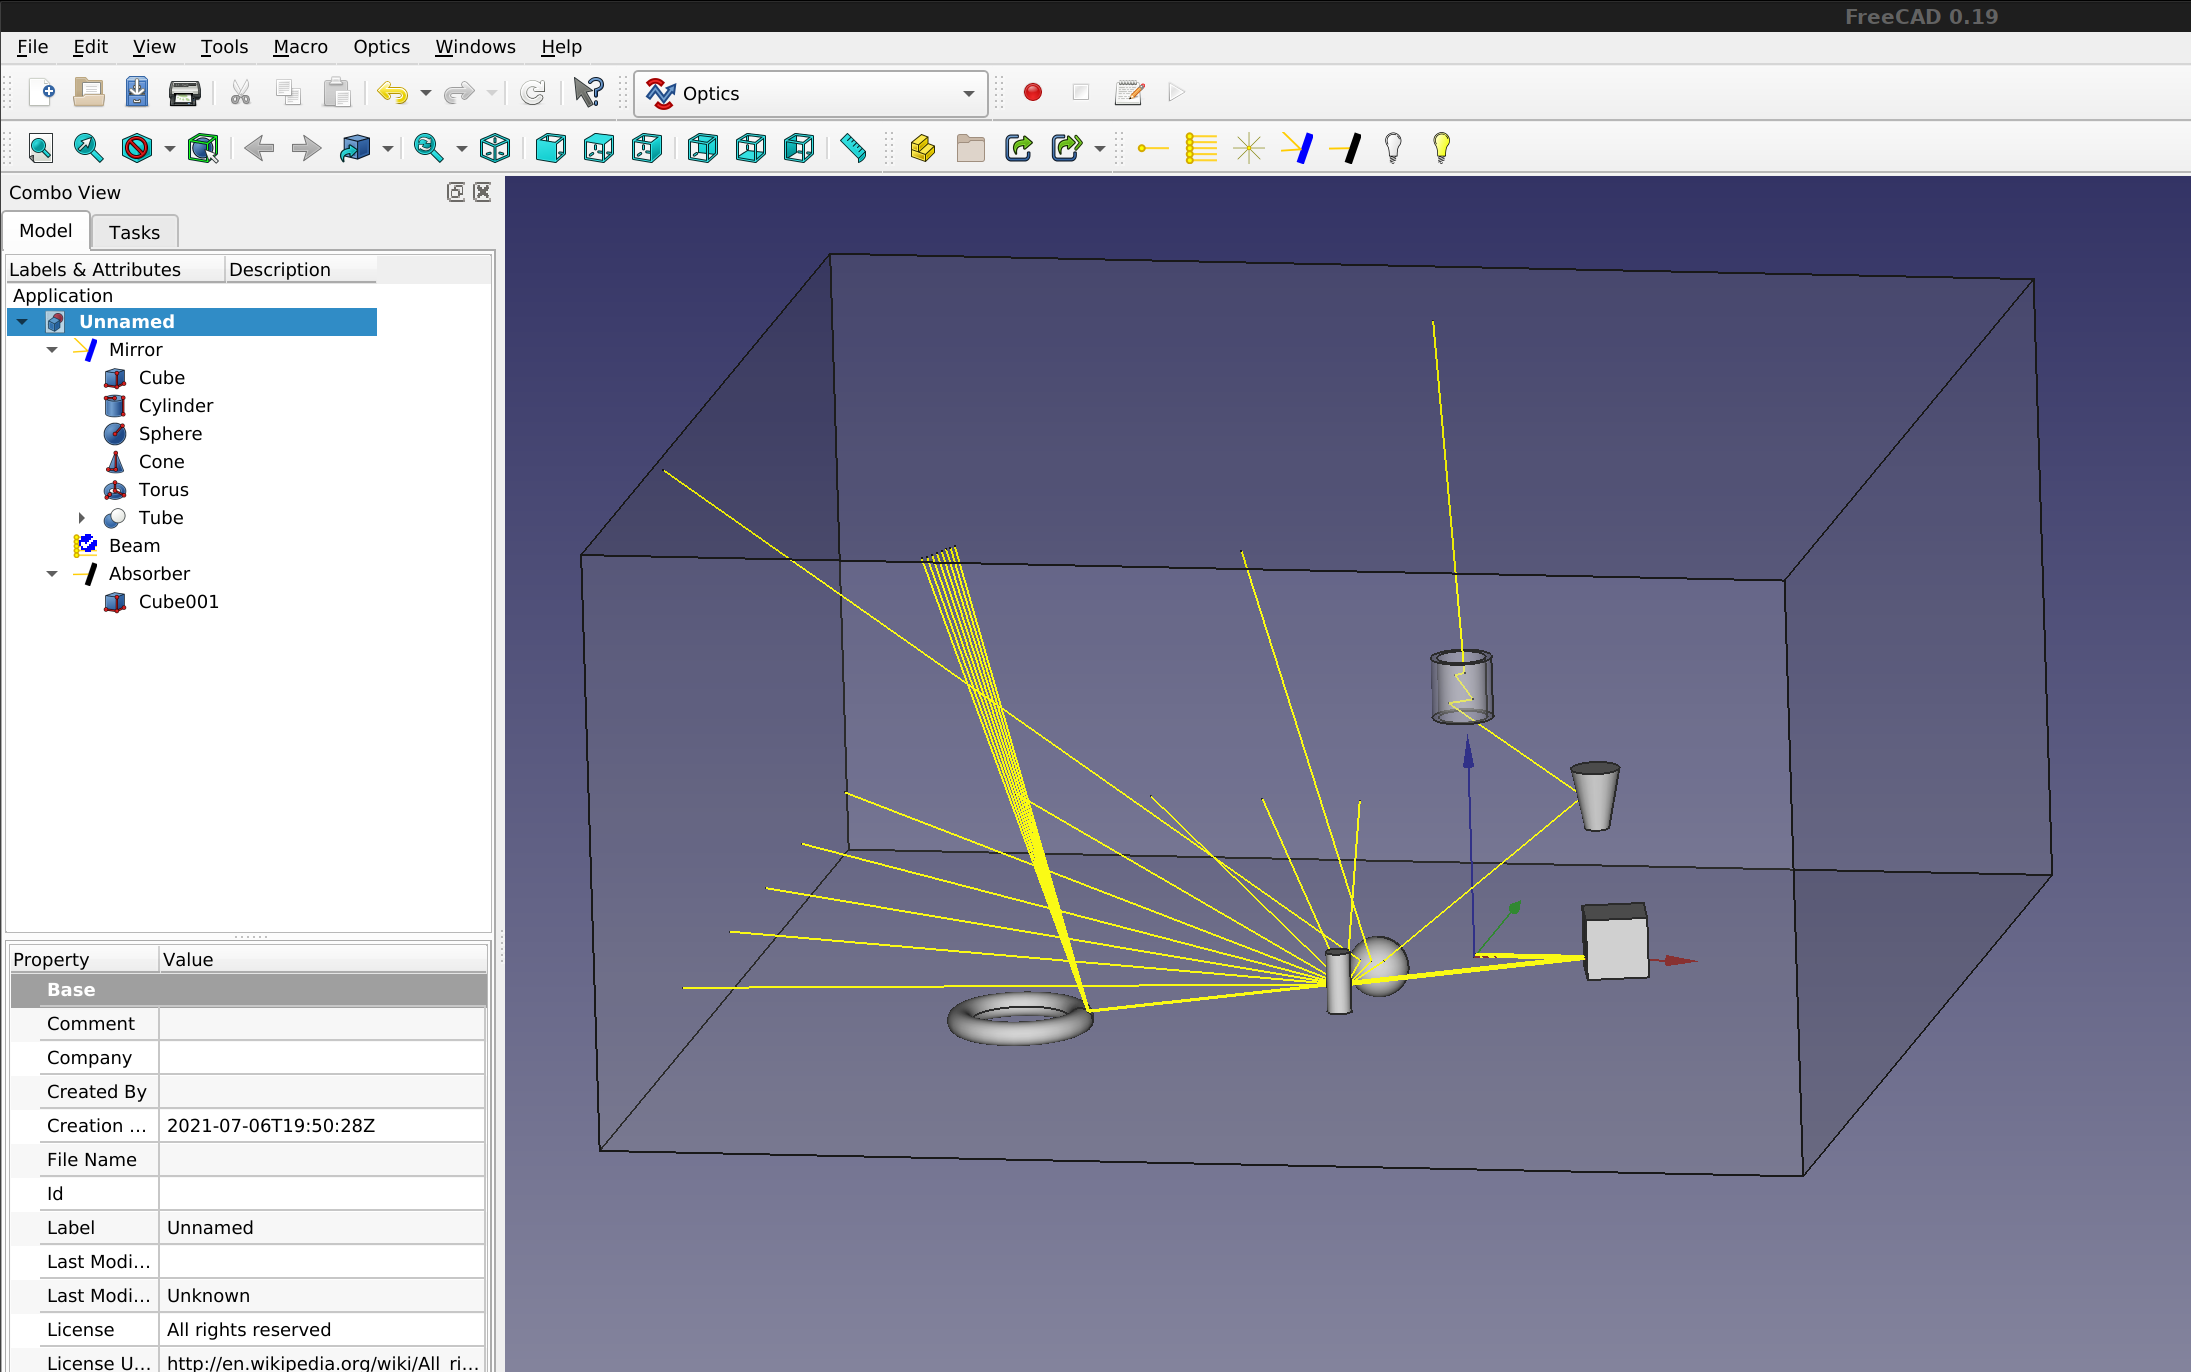
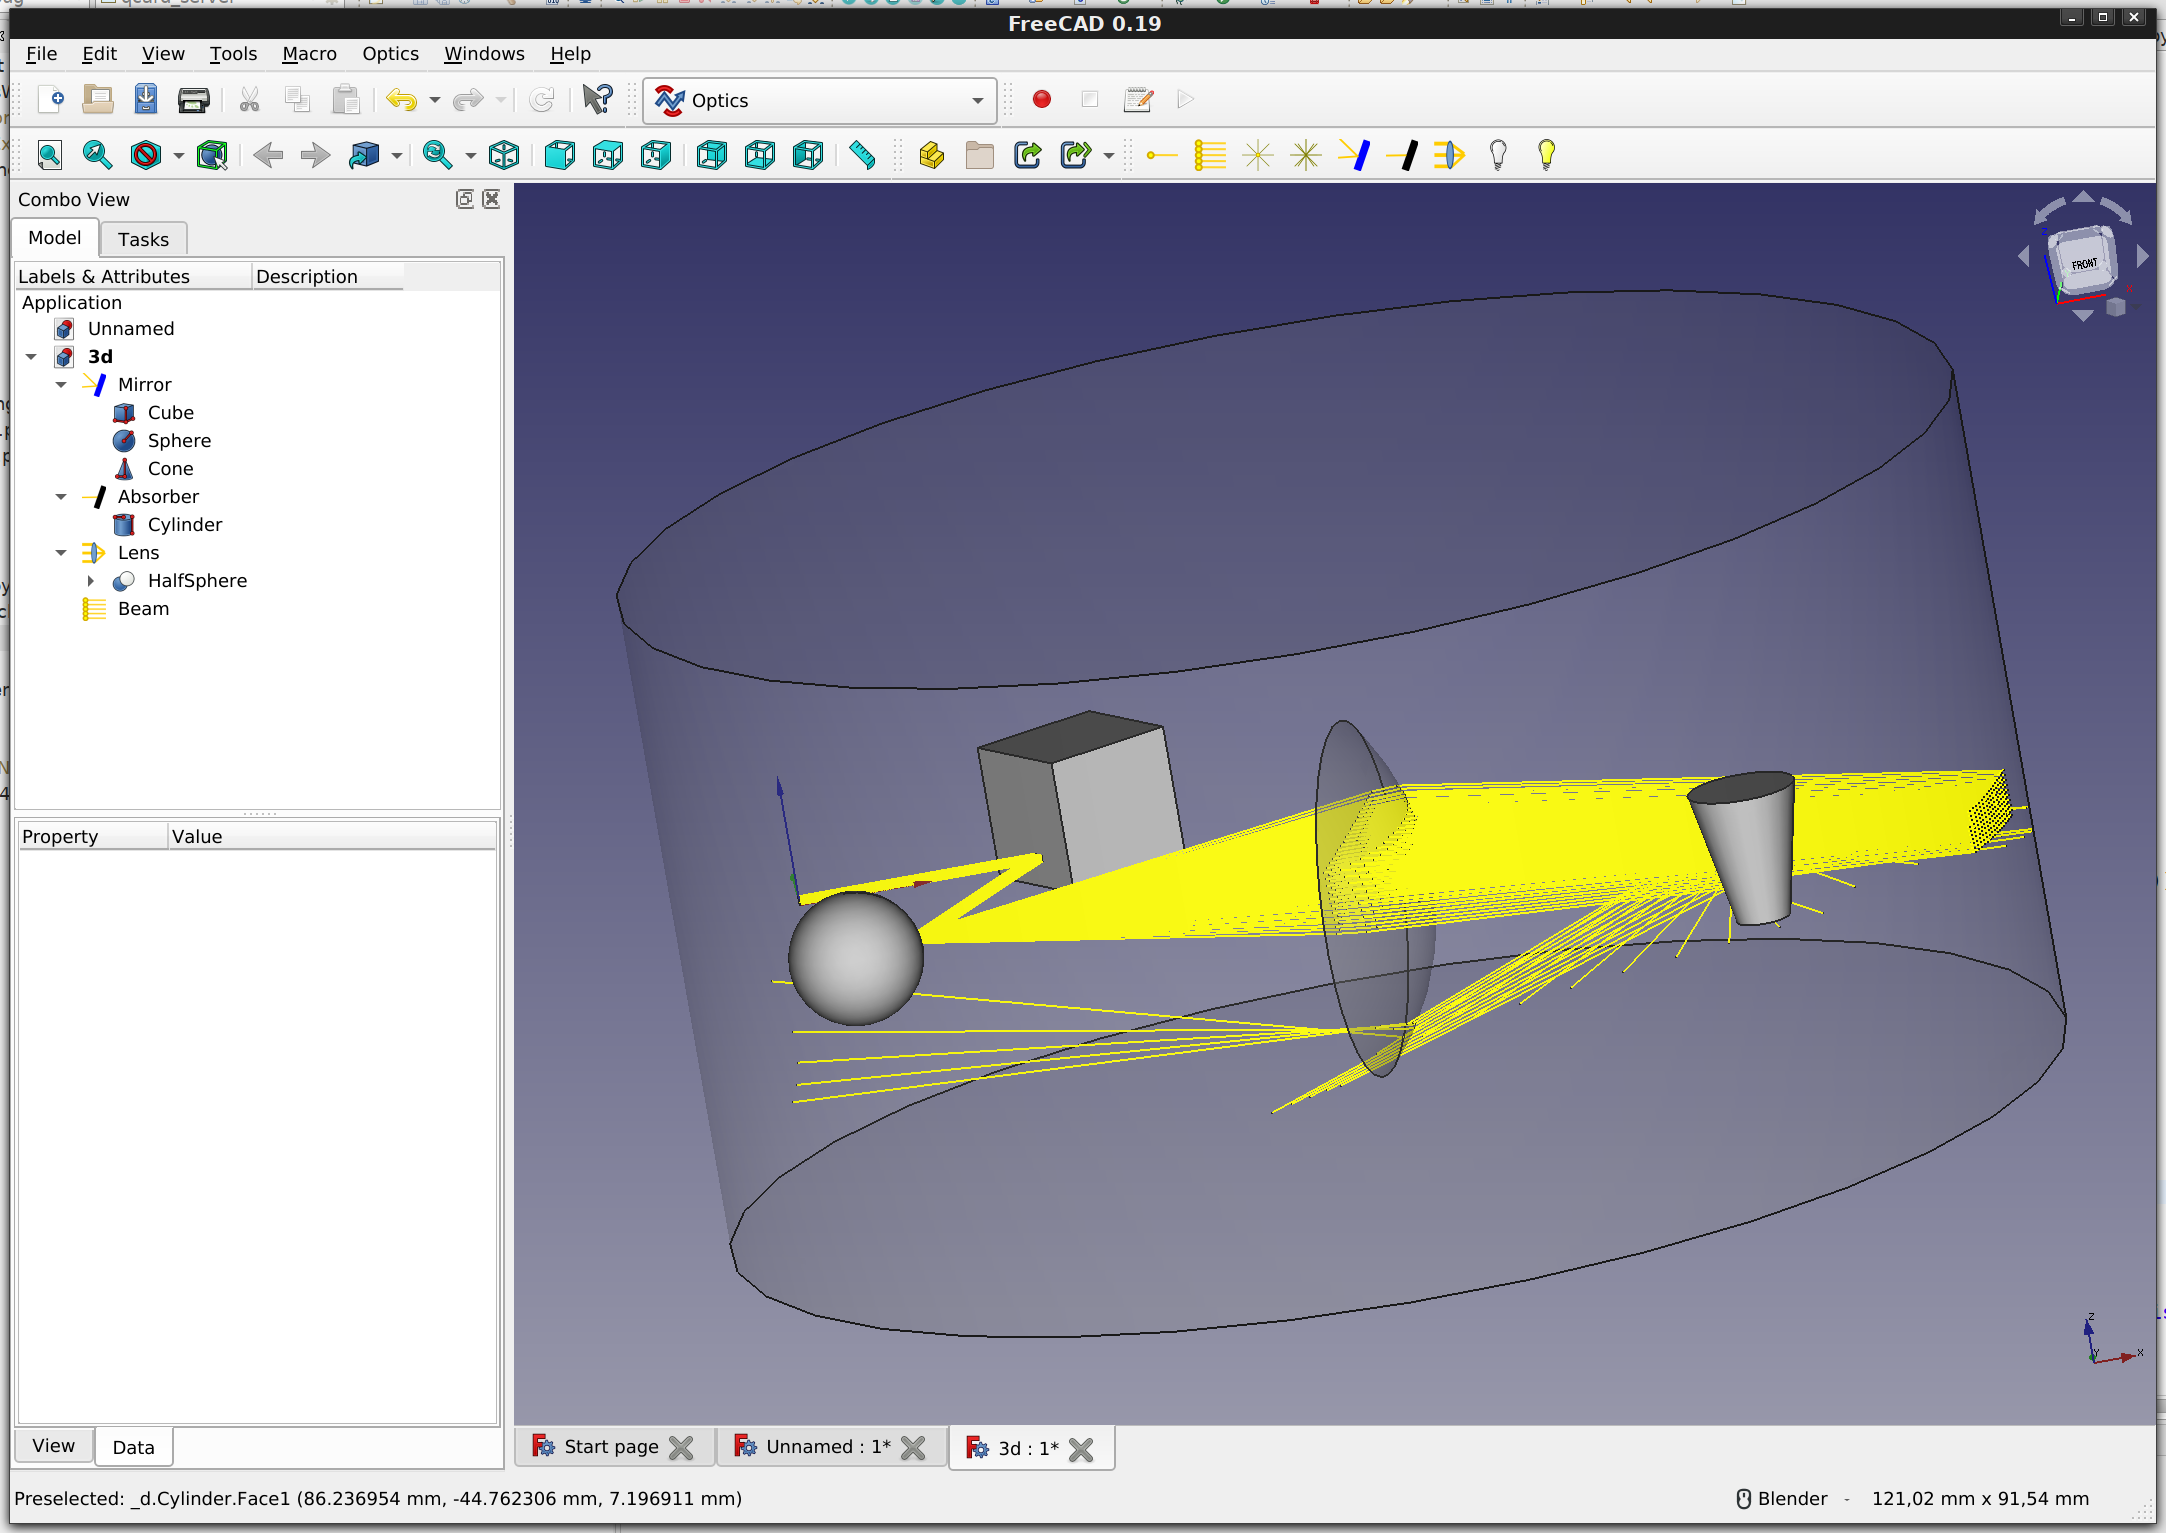
nicer 3D example

diff --git a/examples/example3D.py b/examples/example3D.py
@@ -1,59 +1,55 @@
 from FreeCAD import Vector, Placement, Rotation
-import FreeCAD as App
-import FreeCADGui as Gui
-import OpticsWorkbench
-import os
+import Sketcher
+import Part
+import FreeCAD as app
 
-_icondir_ = os.path.join(os.path.dirname(__file__), '..', 'icons')
 
 def make_Test3D():
-    doc = App.activeDocument()
+    doc = app.activeDocument()
 
     Cube = doc.addObject('Part::Box', 'Cube')
-    Cube.Placement = Placement(Vector(20.00, -6.00, -2.00), Rotation (0.0, 0.0, 0.13052619222005157, 0.9914448613738104))
-
-    Cylinder = doc.addObject('Part::Cylinder', 'Cylinder')
-    Cylinder.Placement = Placement(Vector(-18.00, -22.00, -4.00), Rotation (0.0, 0.0, 0.0, 1.0))
+    Cube.Placement = Placement(Vector(20.00, -3.17, -2.00), Rotation (-0.0, -0.0, 0.25881904510252074, 0.9659258262890684))
 
     Sphere = doc.addObject('Part::Sphere', 'Sphere')
-    Sphere.Placement = Placement(Vector(-16.00, 0.00, -2.00), Rotation (0.0, 0.0, 0.0, 1.0))
+    Sphere.Placement = Placement(Vector(3.00, -19.00, 0.00), Rotation (0.0, 0.0, 0.0, 1.0))
 
     Cone = doc.addObject('Part::Cone', 'Cone')
-    Cone.Placement = Placement(Vector(26.00, -23.00, 28.00), Rotation (0.0, 0.0, 0.0, 1.0))
+    Cone.Placement = Placement(Vector(68.90, -46.50, -2.30), Rotation (0.0, 0.0, 0.0, 1.0))
 
-    Torus = doc.addObject('Part::Torus', 'Torus')
-    Torus.Placement = Placement(Vector(-44.00, -29.00, -1.50), Rotation (0.0, 0.0, 0.0, 1.0))
+    Cylinder = doc.addObject('Part::Cylinder', 'Cylinder')
+    Cylinder.Height = 50.0
+    Cylinder.Placement = Placement(Vector(40.00, -26.00, -19.00), Rotation (0.0, 0.0, 0.0, 1.0))
+    Cylinder.Radius = 50.0
+    Cylinder.ViewObject.Transparency = 90
 
-    Cylinder001 = doc.addObject('Part::Cylinder', 'Cylinder001')
-    Cylinder001.Radius = 5.0
-    Cylinder001.Visibility = False
-    Cylinder001.ViewObject.Visibility = False
+    Sphere001 = doc.addObject('Part::Sphere', 'Sphere001')
+    Sphere001.Radius = 20.0
+    Sphere001.Visibility = False
+    Sphere001.ViewObject.Visibility = False
 
-    Cylinder002 = doc.addObject('Part::Cylinder', 'Cylinder002')
-    Cylinder002.Radius = 4.0
-    Cylinder002.Visibility = False
-    Cylinder002.ViewObject.Visibility = False
+    Cube002 = doc.addObject('Part::Box', 'Cube002')
+    Cube002.Height = 40.0
+    Cube002.Length = 40.0
+    Cube002.Placement = Placement(Vector(-20.00, -25.00, -20.00), Rotation (0.0, 0.0, 0.0, 1.0))
+    Cube002.Visibility = False
+    Cube002.Width = 40.0
+    Cube002.ViewObject.Visibility = False
 
-    Tube = doc.addObject('Part::Cut', 'Tube')
-    Tube.Base = Cylinder001
-    Tube.Placement = Placement(Vector(0.00, -3.00, 41.00), Rotation (0.0, 0.0, 0.0, 1.0))
-    Tube.Tool = Cylinder002
-    Tube.ViewObject.DiffuseColor = [(0.80, 0.80, 0.80, 0.00), (0.80, 0.80, 0.80, 0.00), (0.80, 0.80, 0.80, 0.00), (0.80, 0.80, 0.80, 0.00)]
-    Tube.ViewObject.Transparency = 70
-    
-    OpticsWorkbench.makeMirror([Cube, Cylinder, Sphere, Cone, Torus, Tube])
-    
-    Cube001 = doc.addObject('Part::Box', 'Cube001')
-    Cube001.Height = 100.0
-    Cube001.Length = 200.0
-    Cube001.Placement = Placement(Vector(-122.0, -100.0, -10.00), Rotation (0.0, 0.0, 0.0, 1.0))
-    Cube001.Width = 200.0
-    Cube001.ViewObject.Transparency = 80
-     
-    OpticsWorkbench.makeAbsorber([Cube001])
+    HalfSphere = doc.addObject('Part::Cut', 'HalfSphere')
+    HalfSphere.Base = Sphere001
+    HalfSphere.Placement = Placement(Vector(25.86, -24.61, 0.00), Rotation (0.0, 0.0, -0.793353340291235, 0.6087614290087205))
+    HalfSphere.Tool = Cube002
+    HalfSphere.ViewObject.DiffuseColor = [(0.80, 0.80, 0.80, 0.00), (0.80, 0.80, 0.80, 0.00)]
+    HalfSphere.ViewObject.Transparency = 75
     
     doc.recompute()
-    OpticsWorkbench.makeRay(beamNrColumns=30)
+
+    OpticsWorkbench.makeMirror([Cube, Sphere, Cone])
+    OpticsWorkbench.makeAbsorber([Cylinder])
+    OpticsWorkbench.makeLens([HalfSphere])
+    
+    doc.recompute()
+    OpticsWorkbench.makeRay(beamNrColumns=20, beamNrRows=10, beamDistance=0.05)
     
     doc.recompute()
 

diff --git a/README.md b/README.md
@@ -20,28 +20,47 @@ git clone https://github.com/chbergmann/OpticsWorkbench.git
 When you restart FreeCAD, "Optics Workbench" workbench should now show up in the [workbench dropdown list](https://freecadweb.org/wiki/Std_Workbench).
   
 ## Getting started
+- Create some FreeCAD design objects. For 2D simulation Sketches will do the job.
+- Select one or more of your design objects and then create Optical Mirror to let your objects act as mirrors
+- Select one or more of your design objects and then create Optical Absorber to let your objects act as black walls for the light rays
+- Select one or more of your design objects and then create Optical Lenses to let your objects act as lenses. Lenses should be closed shapes. 
+Select a material in the Lens properties or provide a refraction index.
+- Add some source of light (Ray, Beam). 
 
 ## Tools
 ### ![RayIcon](./icons/ray.svg) Ray
-A single ray for raytracing
+A single ray for raytracing  
+Parameters:
+- Power: On or Off  
+- Direction: Direction vector of the ray. Set this value to (0, 0, 0) to get a radial or sperical beam.
+- BeamNrColumns: Number of rays in a beam per row
+- BeamNrRows: Number of rays in a beam per column
+- BeamDistance: Distance between two beams
+- MaxNumberRays: Maximum number of reflections per ray (prevents infinite loops)
 
 ### ![2D Beam](./icons/rayarray.svg) 2D Beam
-A row of multiple rays for raytracing
+A row of multiple rays for raytracing  
+Parameters: see Ray. BeamNrColumns must be > 1 to get a beam
 
 ### ![Radial Beam](./icons/sun.svg) 2D Radial Beam
-Rays coming from one point going to all directions in a 2D plane
+Rays coming from one point going to all directions in a 2D plane  
+Parameters: see Ray. BeamNrColumns must be > 1 and Direction = (0, 0, 0) to get a radial beam
 
 ### ![Spherical Beam](./icons/sun3D.svg) Spherical Beam
-Rays coming from one point going to all directions
+Rays coming from one point going to all directions  
+Parameters: see Ray. BeamNrColumns and BeamNrRows must be > 1 and Direction = (0, 0, 0) to get a spherical beam
 
 ### ![Optical Mirror](./icons/mirror.svg) Optical Mirror
-The selected FreeCAD objects will act as mirrors
+The FreeCAD objects in parameter Base will act as mirrors  
+Select some FreeCAD objects, then create Optical Mirror
 
 ### ![Optical Absorber](./icons/absorber.svg) Optical Absorber
-The selected FreeCAD objects will swallow the rays of light
+The FreeCAD objects in parameter Base will swallow the rays of light  
+Select some FreeCAD objects, then create Optical Absorber
 
 ### ![Optical Lens](./icons/lens.svg) Optical Lens
-The selected FreeCAD objects will act as lenses  
+The FreeCAD objects in parameter Base will act as lenses  
+Select some FreeCAD objects, then create Optical Lens  
 The Refration Index has to be provided. The parameter Material contains a list with pre defined refraction indexes.
 
 ### ![Off](./icons/Anonymous_Lightbulb_Off.svg) Switch off lights
